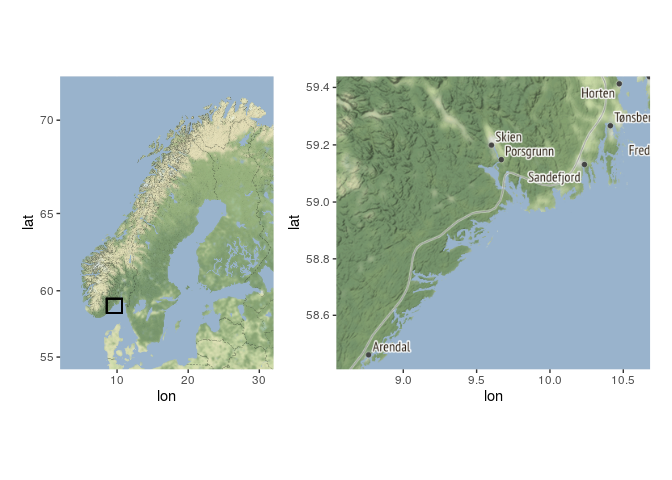
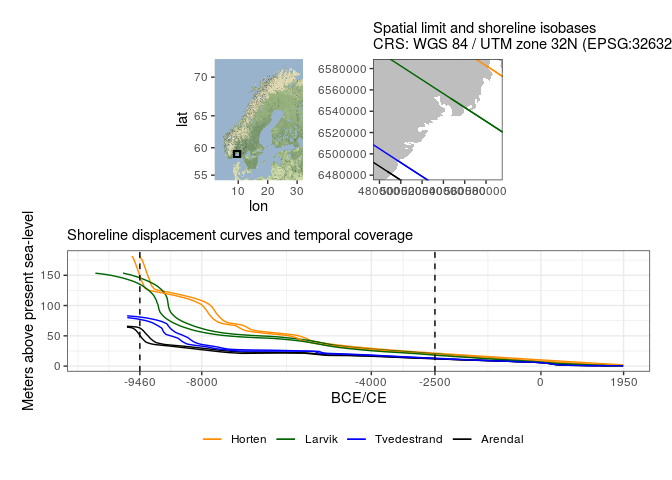
Corrected check for raster in shoreline_date() and updated vigenette and readme

diff --git a/README.md b/README.md
@@ -16,7 +16,7 @@ The goal of *shoredate* is to offer methods to shoreline date Stone Age
 sites located along the Norwegian Skagerrak coast based on their
 present-day elevation and the trajectory of past relative sea-level
 change. The method is based on the likely elevation of the sites above
-the contemporaneous sea-level when they were in use (see @roalkvam2023
+the contemporaneous sea-level when they were in use (see Roalkvam 2023
 for details).
 
 ## Installation
@@ -34,35 +34,38 @@ devtools::install_github("isakro/shoredate")
 As the method of shoreline dating is contingent on relative sea-level
 change, it is dependent on good geological reconstructions of this
 development. At present, the method as outlined here is therefore
-limited to being applicable in the region between Horten in the north
-east to Arendal in the south west. This region has recently compiled
-shoreline displacement curves for. The region also formed the study area
-for @roalkvam2023, in which the method and its parameters were derived.
-The spatial coverage is indicated in the maps below:
+limited to being applicable in the region of south-eastern Norway
+between Horten in the north east to Arendal in the south west. This
+region has recently compiled shoreline displacement curves for Horten
+(Romundset 2021) Larvik (Sørensen et al. 2014; Sørensen et al. 2023),
+Tvedestrand (Romundset 2018; Romundset et al. 2018) and Arendal
+(Romundset 2018). The region also formed the study area for
+@roalkvam2023, in which the method and its parameters were derived. The
+spatial coverage is indicated in the maps below:
 
-    #> ℹ Map tiles by Stamen Design, under CC BY 3.0. Data by OpenStreetMap, under ODbL.
     #> ℹ Map tiles by Stamen Design, under CC BY 3.0. Data by OpenStreetMap, under ODbL.
 
 <img src="man/figures/README-unnamed-chunk-2-1.png" style="display: block; margin: auto;" />
 
 Furthermore, as human occupation in the region only occurred some time
 after the retreat of the ice, the currently oldest known sites are from
-around 9300 BCE. The oldest possible age to achieve with *shoredate* is
-9460 BCE, although no sites are yet known to be that old. A warning is
-given if a site location is outside the spatial extent outlined above,
-but the dating procedure is still performed. If a site has an elevation
-that implies a date older than 9460 BCE the date is returned as NA and a
-warning is given.
+around 9300 BCE (e.g. Glørstad 2016). The oldest possible age to achieve
+with *shoredate* is 9460 BCE, although no sites are yet known to be that
+old. A warning is given if a site location is outside the spatial extent
+outlined above, but the dating procedure is still performed. If a site
+has an elevation that implies a date older than 9460 BCE the date is
+returned as NA and a warning is given.
 
-In @roalkvam2023 it was found that sites tend to be located on or close
+In Roalkvam 2023 it was found that sites tend to be located on or close
 to the shoreline up until around the transition to the Late Neolithic,
 c. 2500 BCE, which thus marks the upper limit for the applicability of
 the method. A date that has a later start date than this is therefore
-returned as NA with a warning. Additionally, the geological displacement
-curves are reported as years cal BP. If a date extends beyond 1950 CE
-(which equates to 0 cal BP), thus indicating a site location below the
-present sea-level, this overshooting probability is cut off and the date
-is normalised to sum to unity.
+returned as NA with a warning. The temporal range is indicated by the
+dashed lines in the plot displaying the shoreline displacement curves,
+above. Additionally, if a date extends beyond 1950 CE (0 cal BP), thus
+indicating a site location below the present sea-level, this
+overshooting probability is cut off and the date is normalised to sum to
+unity.
 
 ## Interpolating shoreline displacement to a site location
 
@@ -148,7 +151,7 @@ shoredate_plot(target_date, elevation_distribution = FALSE,
 It is also possible to date multiple sites at once. The default
 behaviour when providing multiple shoreline dates is to plot a series of
 individual plots for each date. However, setting `multiplot = TRUE` when
-calling shoredate_plot() collapses the dates on a single plot that is
+calling `shoredate_plot()` collapses the dates on a single plot that is
 more sparse, ordering the sites from earliest to latest possible start
 date for the occupation of the sites.
 
@@ -177,3 +180,41 @@ shoredate_plot(target_dates, multiplot = TRUE)
 ```
 
 <img src="man/figures/README-multidate-1.png" style="display: block; margin: auto;" />
+
+# References
+
+Glørstad, H. 2016 Deglaciation, sea-level change and the Holocene
+colonization of Norway. *Geological Society, London, Special
+Publications* 411(1):9–25.
+
+Romundset, A. 2018. Postglacial shoreline displacement in the
+Tvedestrand–Arendal area. In *The Stone Age Coastal Settlement in
+Aust-Agder, Southeast Norway*, edited by Gaute, Reitan and Lars
+Sundström. Cappelen Damm Akademisk, Oslo, pp. 463–478.
+
+Romundset, A. 2021 *Resultater fra NGUs undersøkelse av etteristidas
+strandforskyvning nord i Vestfold*. Geological Survey of Norway,
+Trondheim.
+
+Romundset, A., Lakeman, T.R. and Høgaas, F. 2018. Quantifying variable
+rates of postglacial relative sea level fall from a cluster of 24
+isolation basins in southern Norway. *Quaternary Science Reviews*
+197:175e192. DOI: <https://doi.org/10.1016/> j.quascirev.2018.07.041
+
+Roalkvam, I. 2023 A simulation-based assessment of the relation between
+Stone Age sites and relative sea-level change along the Norwegian
+Skagerrak coast. *Quaternary Science Reviews* 299:107880. DOI:
+10.1016/j.quascirev.2022.107880
+
+Sørensen, R, Henningsmoen, K.E. Høeg, H.I. and Gälman V. 2023. Holocen
+vegetasjonshistorie og landhevning i søndre Vestfold og sørøstre
+Telemark. In *The Stone Age in Telemark. Archaeological Results and
+Scientific Analysis from Vestfoldbaneprosjektet and E18
+Rugtvedt–Dørdal*, edited by Per Persson and Steinar Solheim, in press.
+
+Sørensen, R, Henningsmoen, K.E. Høeg, H.I. and Gälman V. 2014 Holocene
+landhevningsstudier i søndre Vestfold og sørøstre Telemark – Revidert
+kurve. In *Vestfoldbaneprosjektet. Arkeologiske undersøkelser i
+forbindelse med ny jernbane mellom Larvik og Porsgrunn. Bind 1*, edited
+by Stine Melvold and Per Persson. Portal forlag, Kristiansand,
+pp. 36–47.
